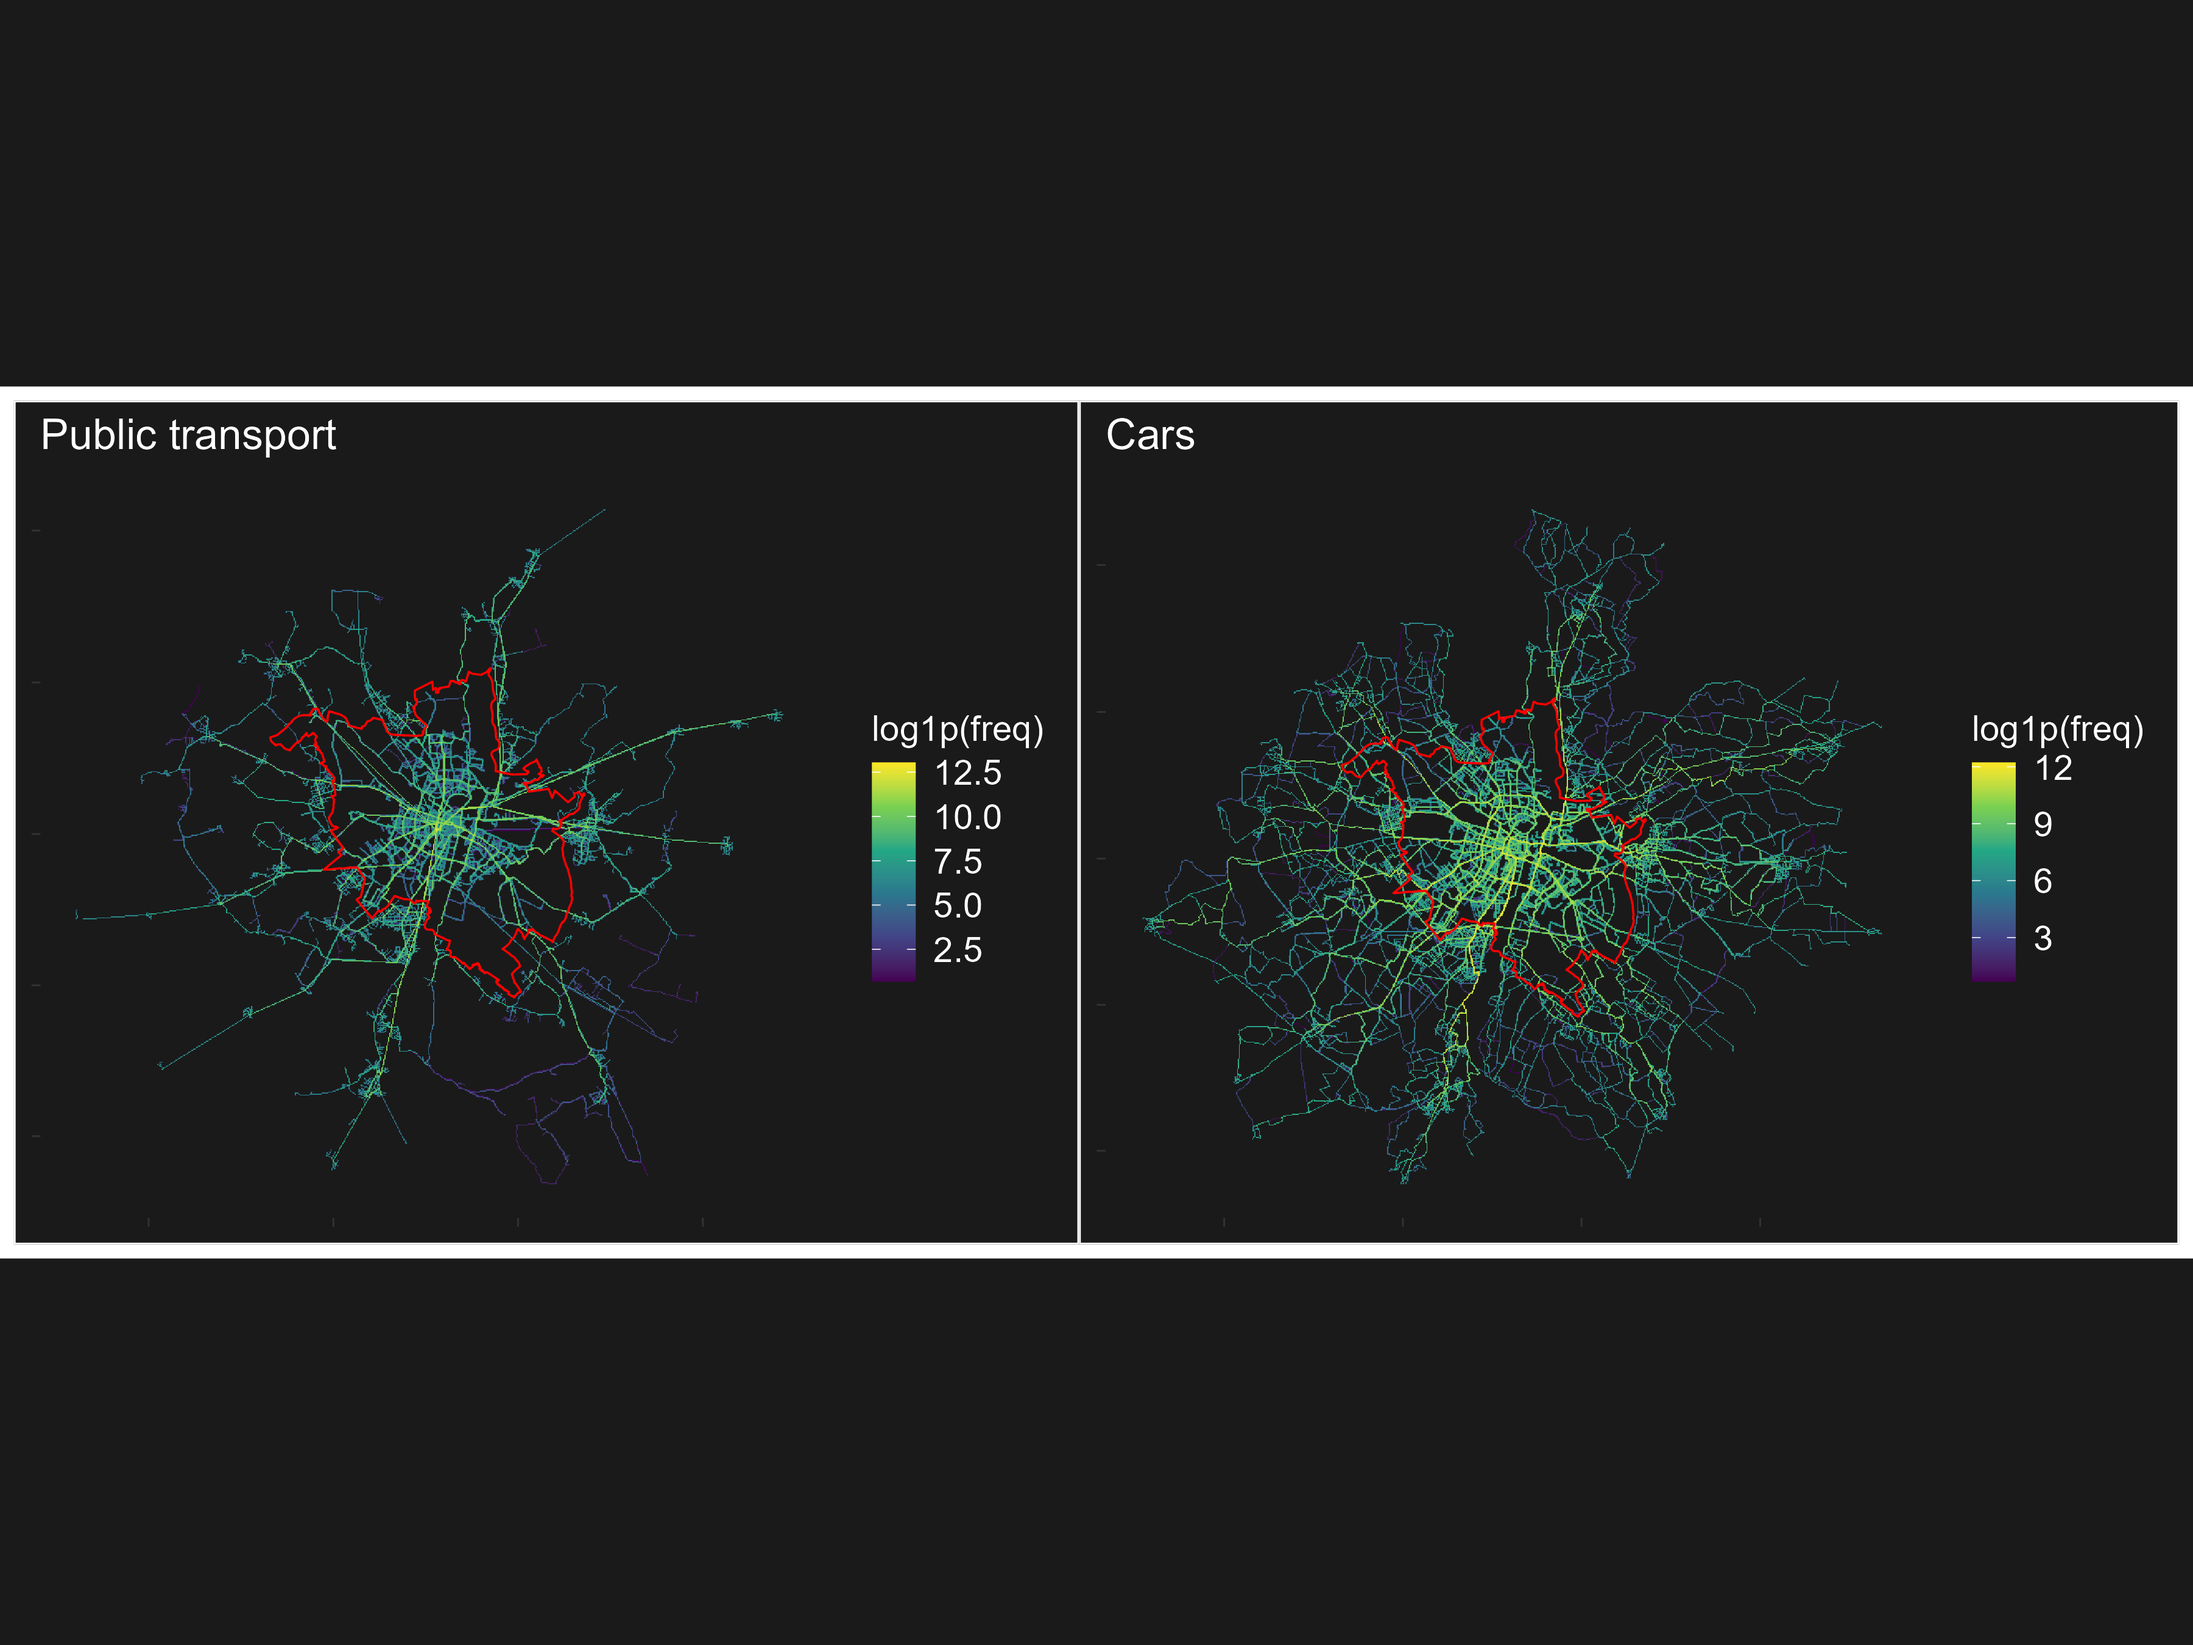
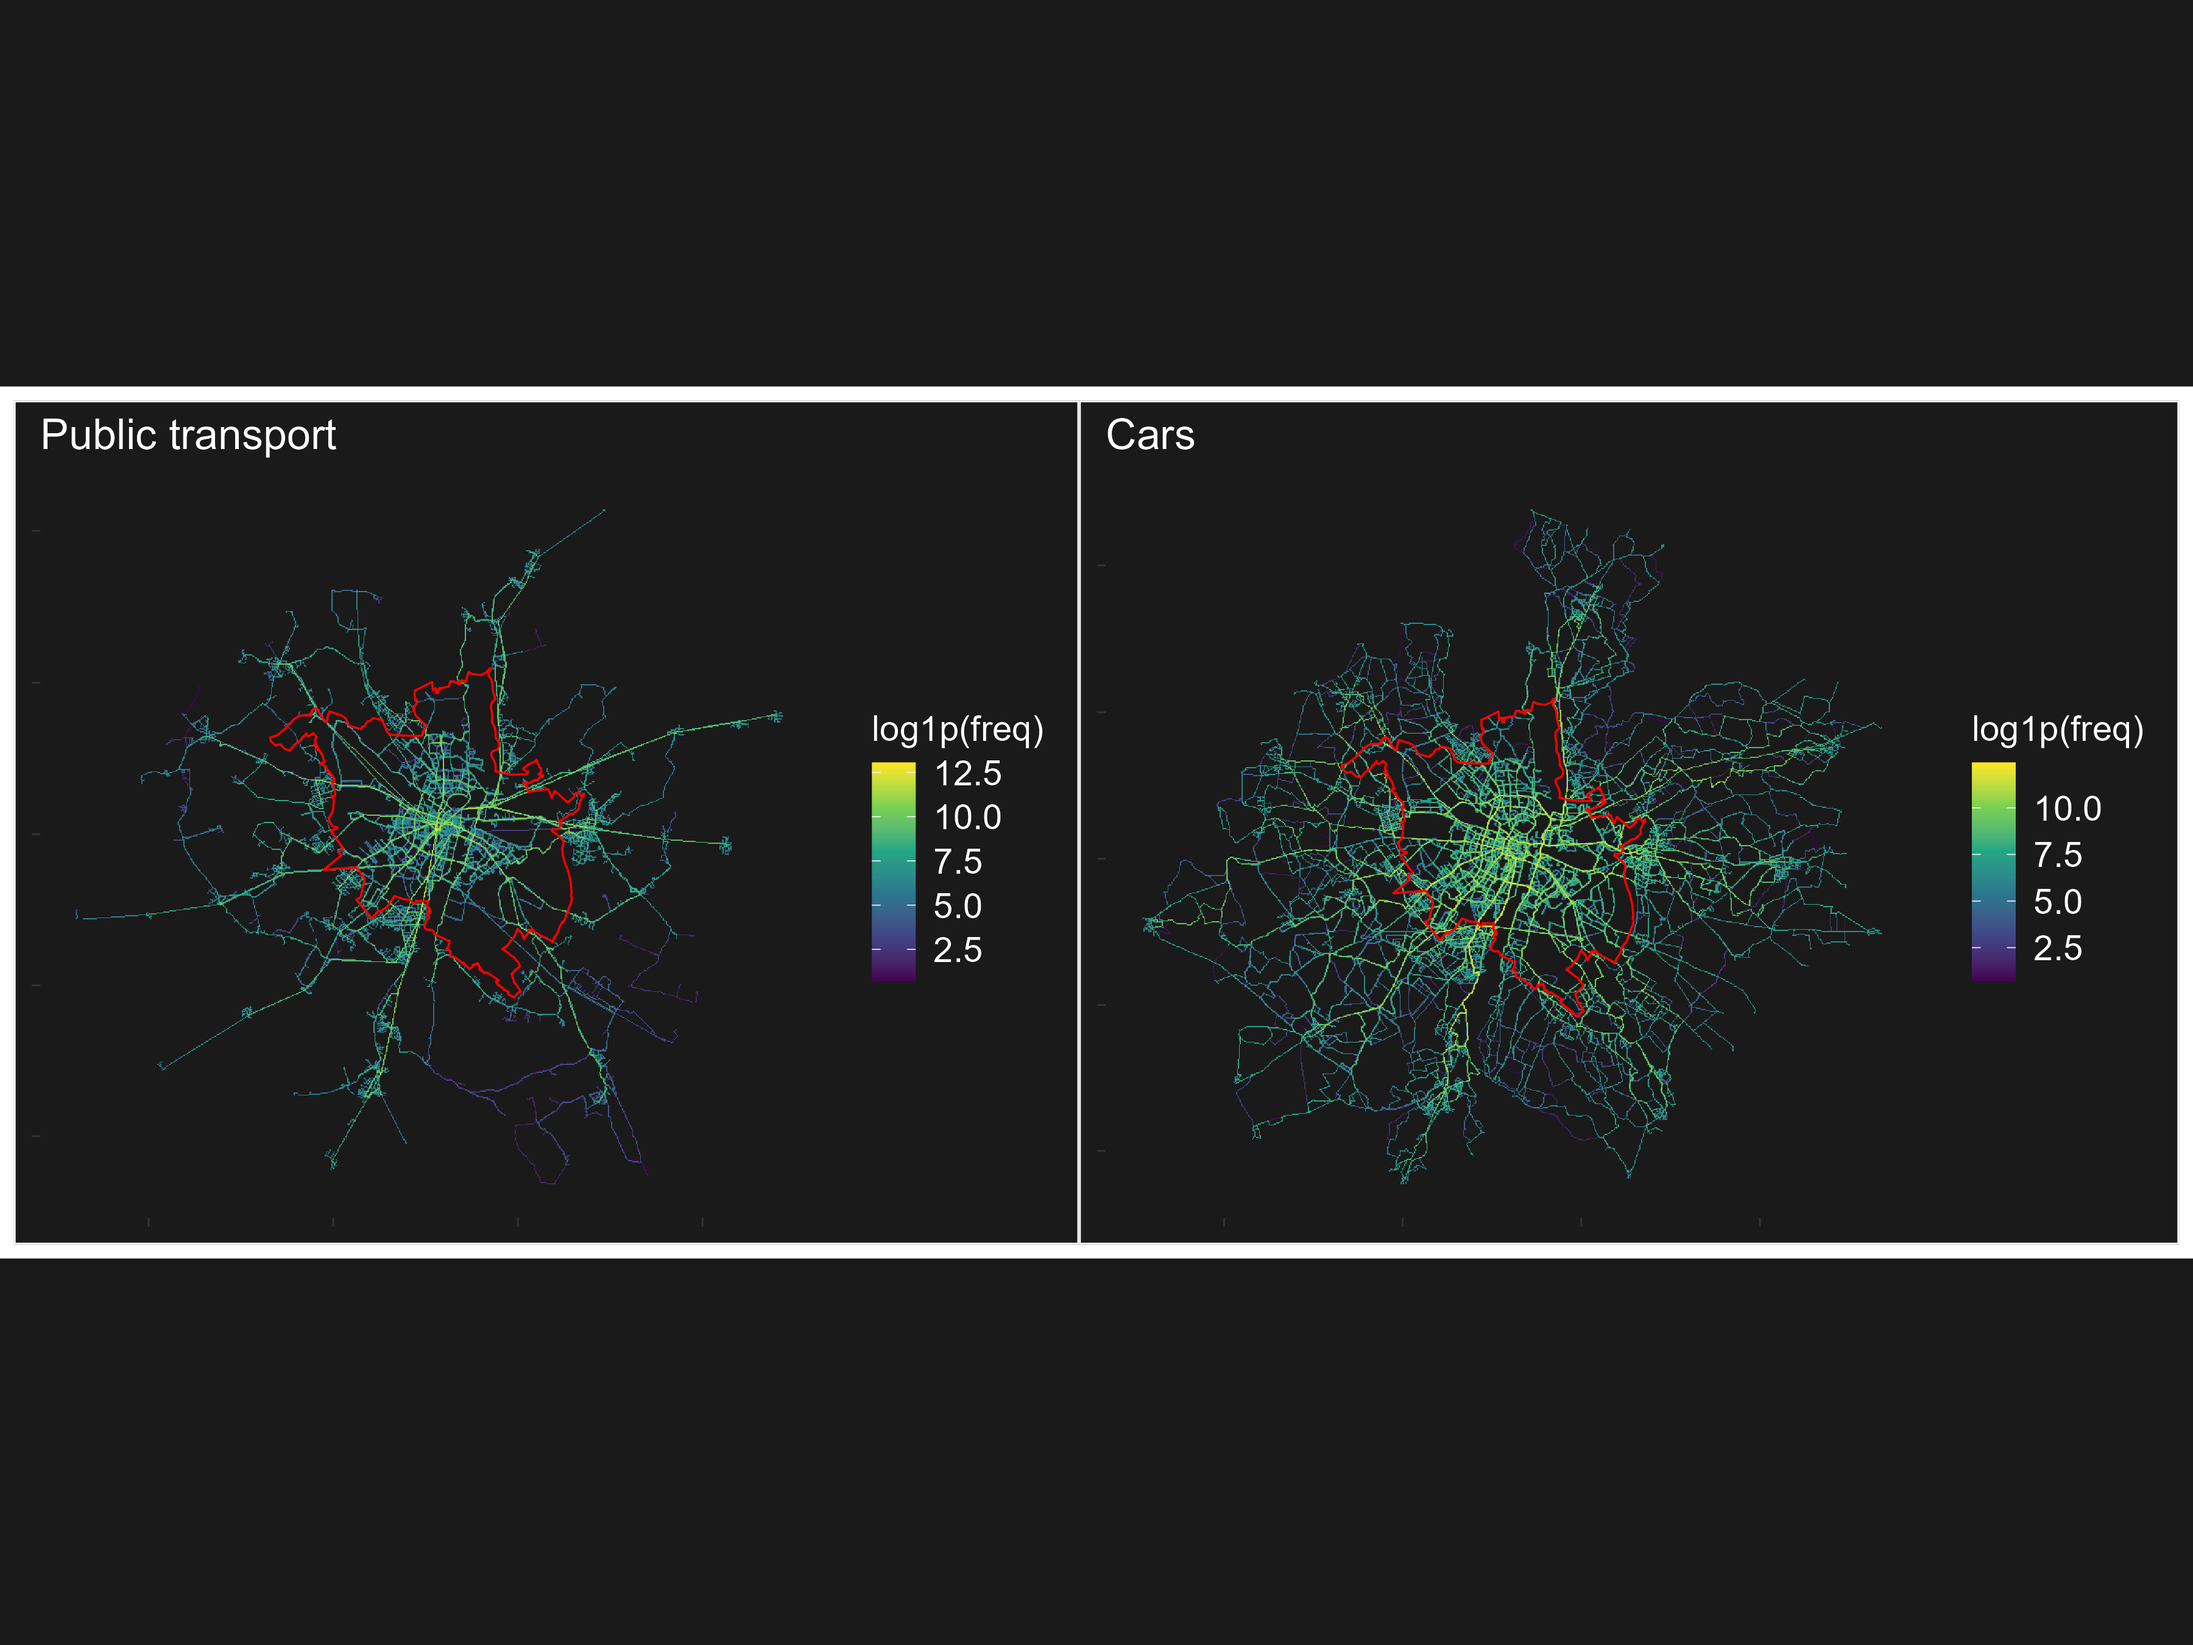
claude works

Changed region(s): [[0.5911, 0.3422, 0.84, 0.6222], [0.1556, 0.4044, 0.28, 0.5911], [0.9333, 0.4667, 0.9644, 0.4978]]

diff --git a/README.md b/README.md
@@ -139,12 +139,10 @@ folder), independent of the data location.
 2 ─┘        │    └─→ (standalone exploration)
             ├─→ 8
             ├─→ 9  ─┐
-            ├─→ 11  │  (9, 10, 11 all source lisa_priority_utils.R;
-            └─→ 12  │   11 also reads pop_grid.gpkg from step 2)
+            ├─→ 10  │  (9, 10, 11 all source lisa_priority_utils.R;
+            ├─→ 11  │   10 and 11 also read pop_grid.gpkg from step 2)
+            └─→ 12  │
 3 (diagnostic, reads outputs of 1 & 2, not required by 4)
-
-10 is standalone: rereads itineraries + GTFS + pop_grid from disk directly,
-independent of scripts 5-9.
 
 12 also reads workplace_grid.gpkg (step 1), ap.gpkg, and the external
 OD_flows.csv census matrix (restricted to neighborhood -> core flows).
@@ -156,10 +154,10 @@ produces a diagnostic combined grid (`pop_workplaces_grid.gpkg`,
 `pop_wp_flows_grid.gpkg`) and introductory figures; run it whenever you
 want those, but it does not block later steps.
 
-**5 → {6, 8, 9, 11, 12} is now file-based, not session-based.** Step 5
+**5 → {6, 8, 9, 10, 11, 12} is now file-based, not session-based.** Step 5
 rasterizes and consolidates the raw per-municipality itinerary files and
 writes `itineraries_results.rds`, `pt_itineraries.rds`, and
-`car_itineraries.rds` to `Data/`. Steps 6, 8, 9, 11, and 12 each
+`car_itineraries.rds` to `Data/`. Steps 6, 8, 9, 10, 11, and 12 each
 `readRDS()` those files at the top, so they can be run independently in
 fresh R sessions, in any order relative to each other, as long as step 5
 has run at least once.
@@ -203,12 +201,17 @@ has run at least once.
    `itinerary_summary_stats.csv`,
    `itinerary_competitiveness_breakdown.csv`*
 9. **`9_analyse_itineraries.R`** — LISA clustering of car-vs-PT flow
-   density, PT-accessibility classification against GTFS stop frequency,
-   and the multi-dimensional PT investment priority typology.
-   *Output: `Figures/Fig_PT_investment_priority.png`*
-10. **`10_OD_comparison.R`** — Standalone, from-scratch OD travel-time
-    comparison (PT vs. car) across counties near Poznań, reusing the same
-    LISA/priority classification helpers as step 9.
+   density (mapped as the full four-quadrant HH/LL/HL/LH classification,
+   not just the High-High subset), PT-accessibility classification against
+   GTFS stop frequency, and the multi-dimensional PT investment priority
+   typology.
+   *Output: `Figures/Fig_LISA_cluster_map.png`,
+   `Figures/Fig_PT_investment_priority.png`*
+10. **`10_OD_comparison.R`** — OD travel-time comparison (PT vs. car)
+    across counties near Poznań, rebuilding its own LISA/car-zone
+    classification from scratch (reusing the shared helpers in
+    `lisa_priority_utils.R`, also used by step 9) rather than reusing step
+    9's already-computed result.
     *Output: `Figures/Fig_PT_vs_car_travels.png`,
     `Figures/Fig_PT_vs_car_travels_HEX.png`,
     `Figures/Fig_PT_vs_car_travels_by_origin.png`*
@@ -241,10 +244,8 @@ has run at least once.
     `Figures/Fig_od_validation_scatter.png`,
     `Figures/Fig_od_validation_share_by_municipality.png`*
 
-Steps 7–9, 11, and 12 are exploratory/analytical and can be run
-independently once step 6 (for 7) or step 5 (for 8, 9, 11, 12) has
-produced its output. Step 10 is fully standalone and does not depend on
-steps 1–9.
+Steps 7–12 are exploratory/analytical and can be run independently once
+step 6 (for 7) or step 5 (for 8, 9, 10, 11, 12) has produced its output.
 
 ## Citation
 
